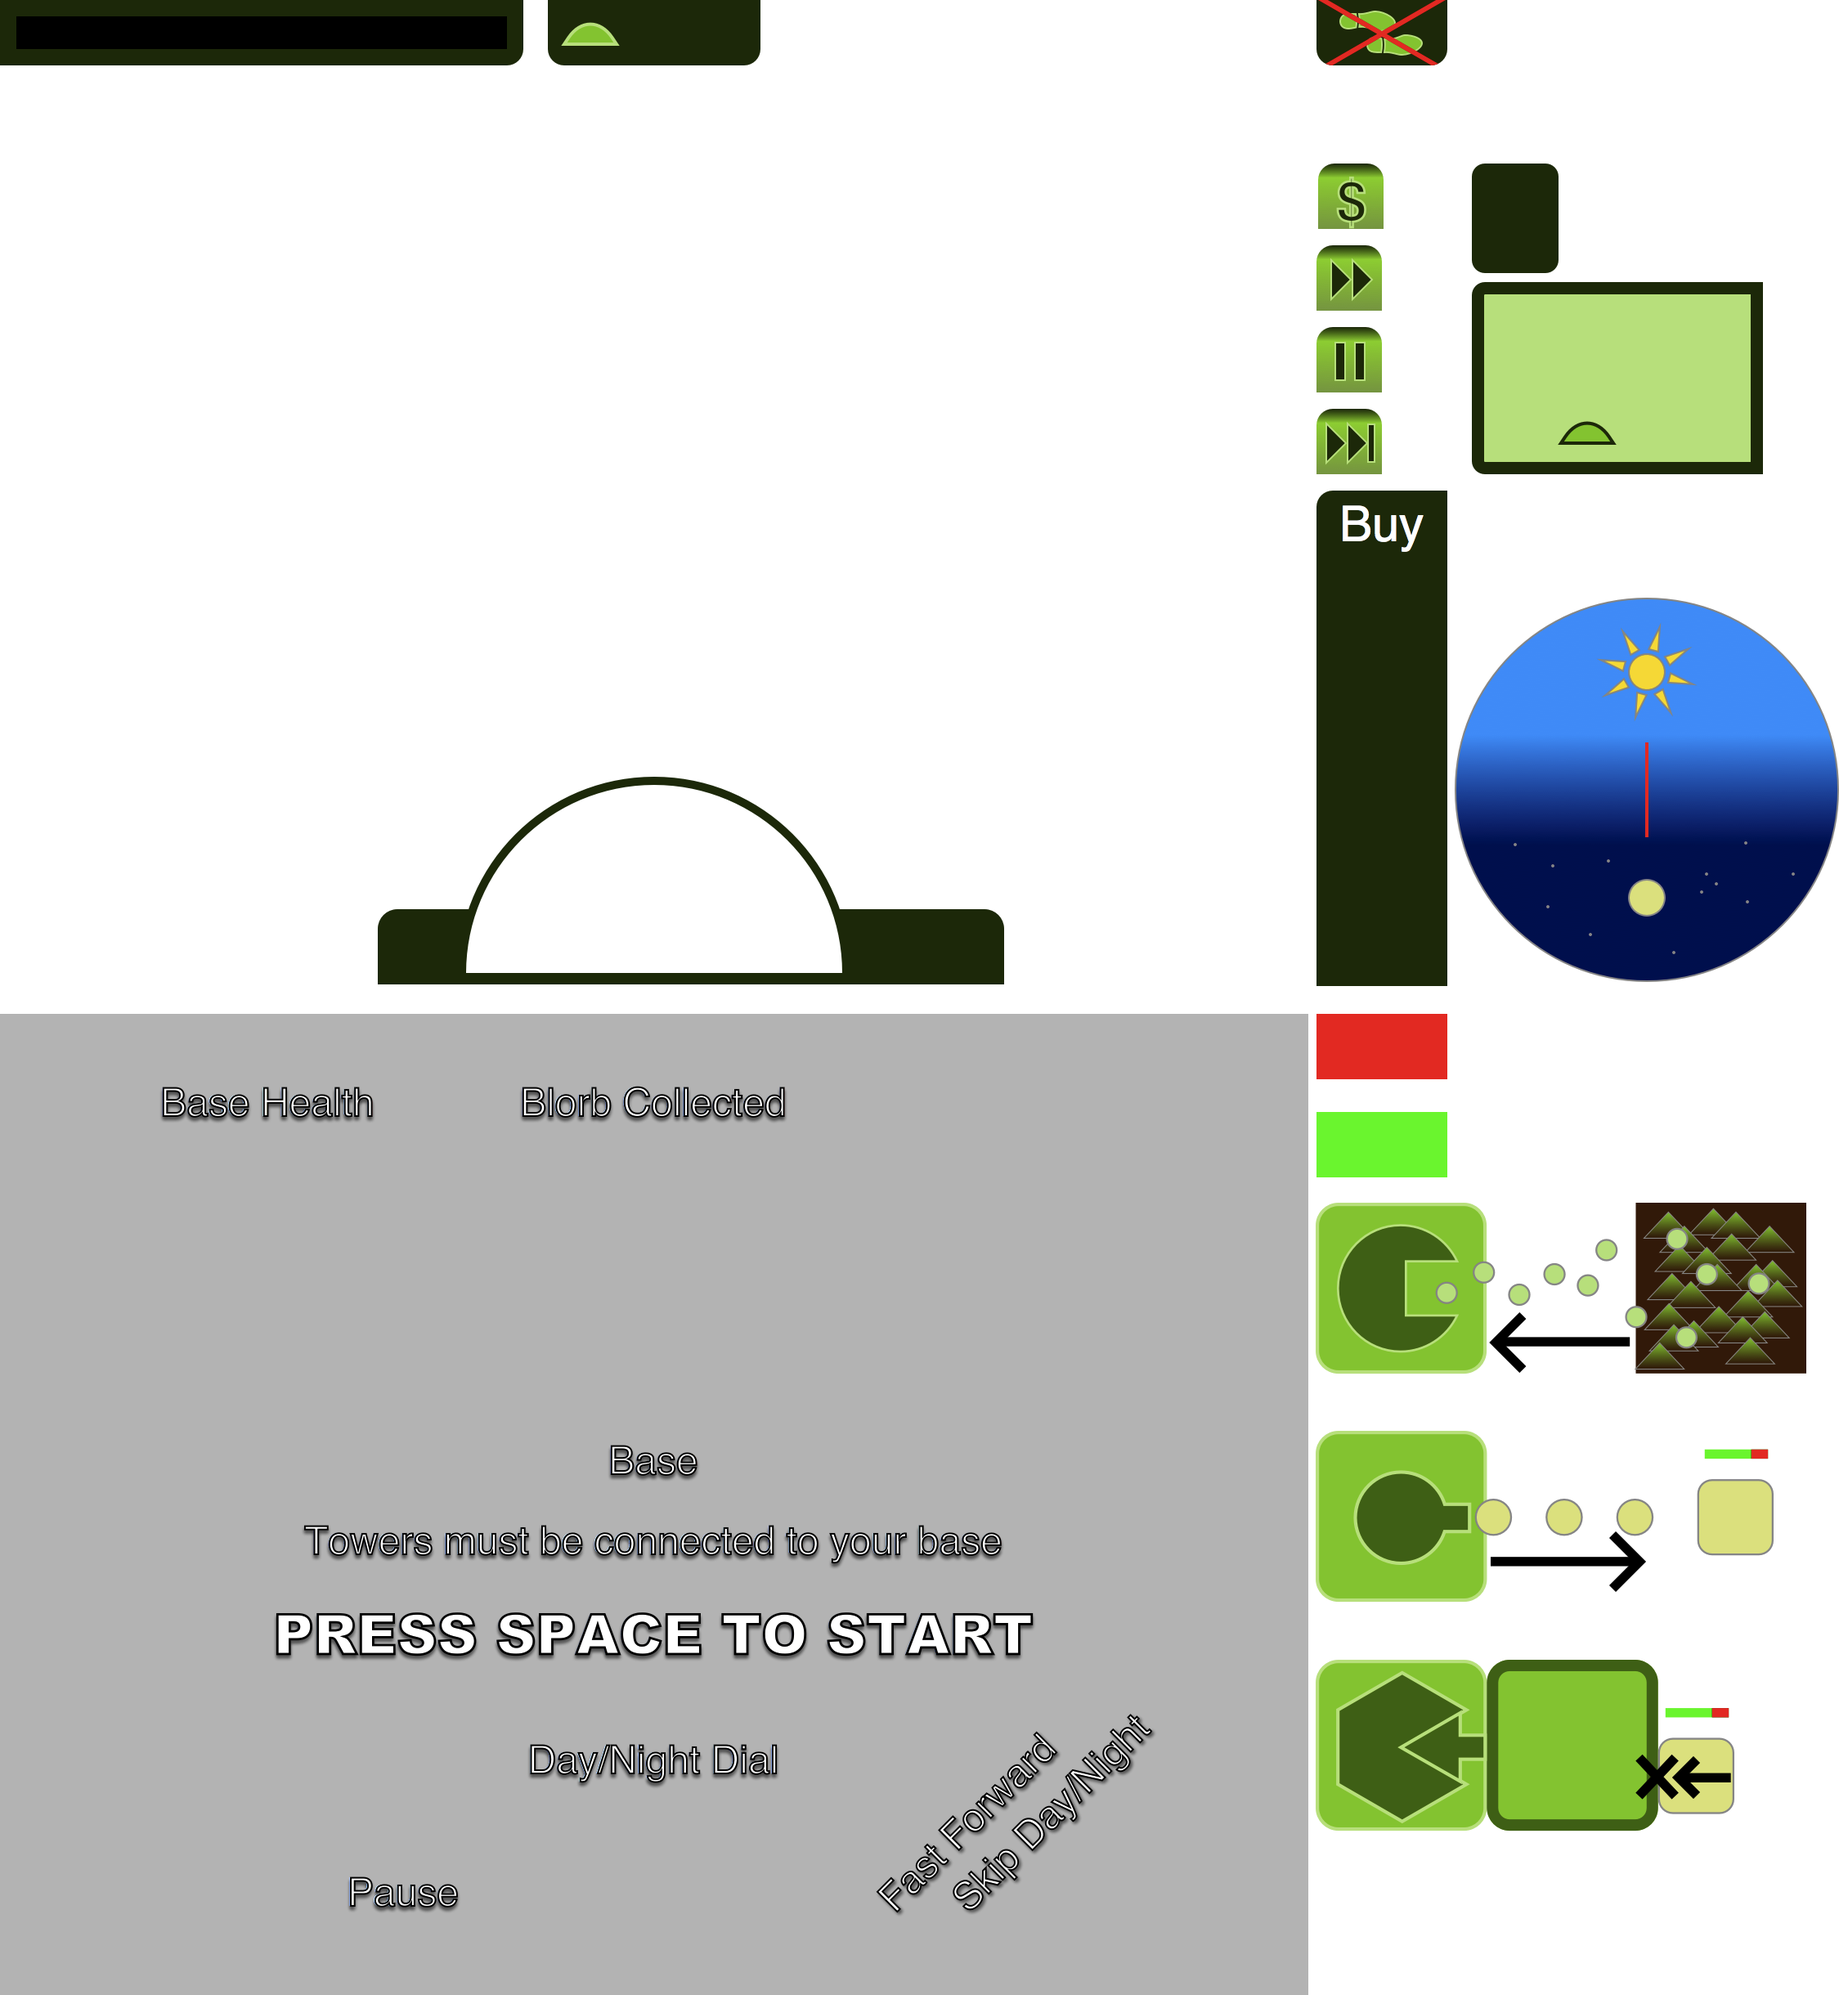
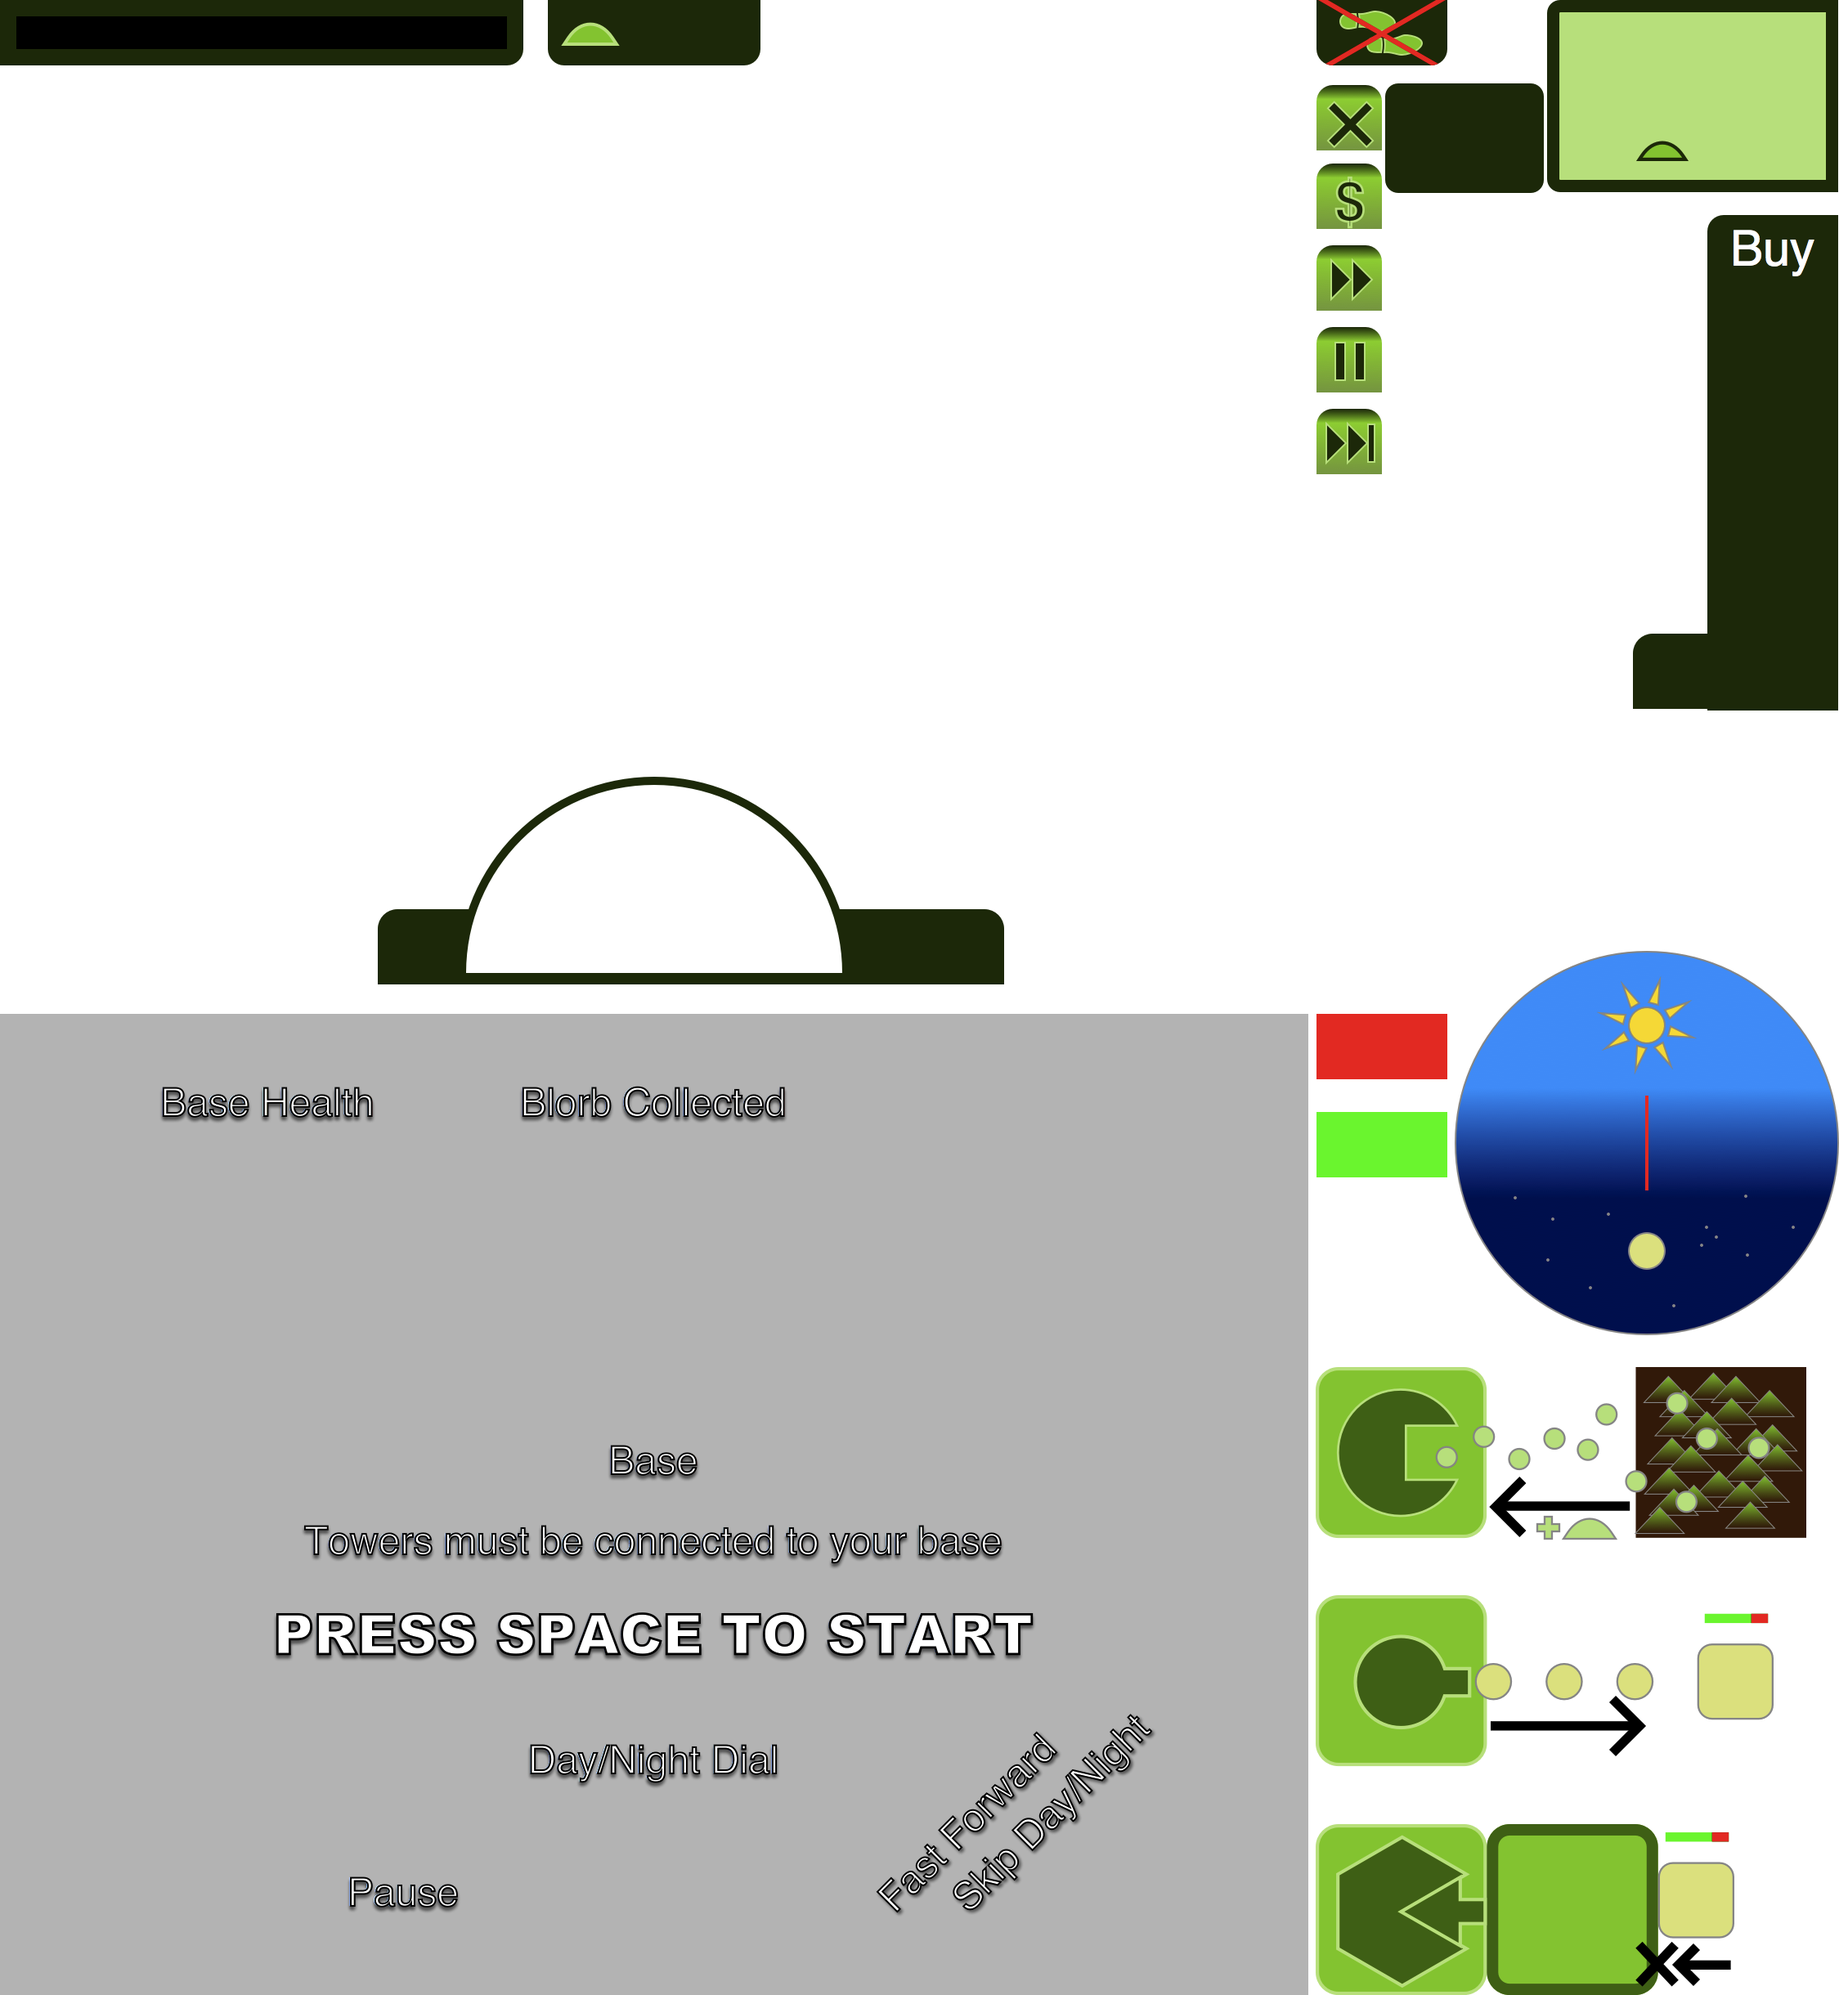
improve sell window and add it to scene, add cancel button for tower building

Changed region(s): [[0.7159, 0.0, 1.0, 1.0]]

diff --git a/Assets/Managers/GUIManager.cs b/Assets/Managers/GUIManager.cs
@@ -106,7 +106,7 @@ public class GUIManager : MonoBehaviour {
 		moveIndicatorDay = moveIndicatorNight = moveIndicator.localPosition;
 
 		// magic numbers for how much to move each of the elements to be out of frame
-		towersNight.x += 3.2f;
+		towersNight.x += 5f;
 		skipButtonNight.y -= 1.64f;
 		moveIndicatorNight.y -= 1.64f;
 	}
